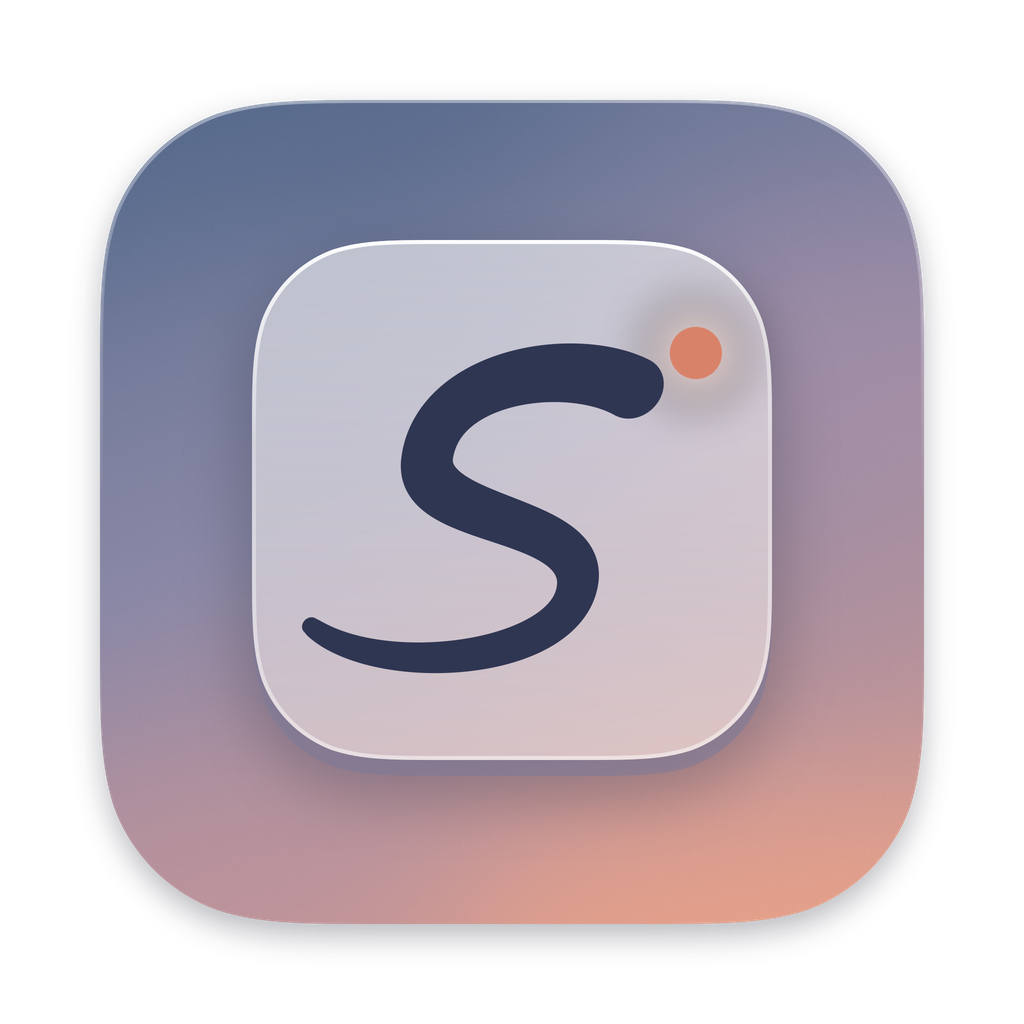
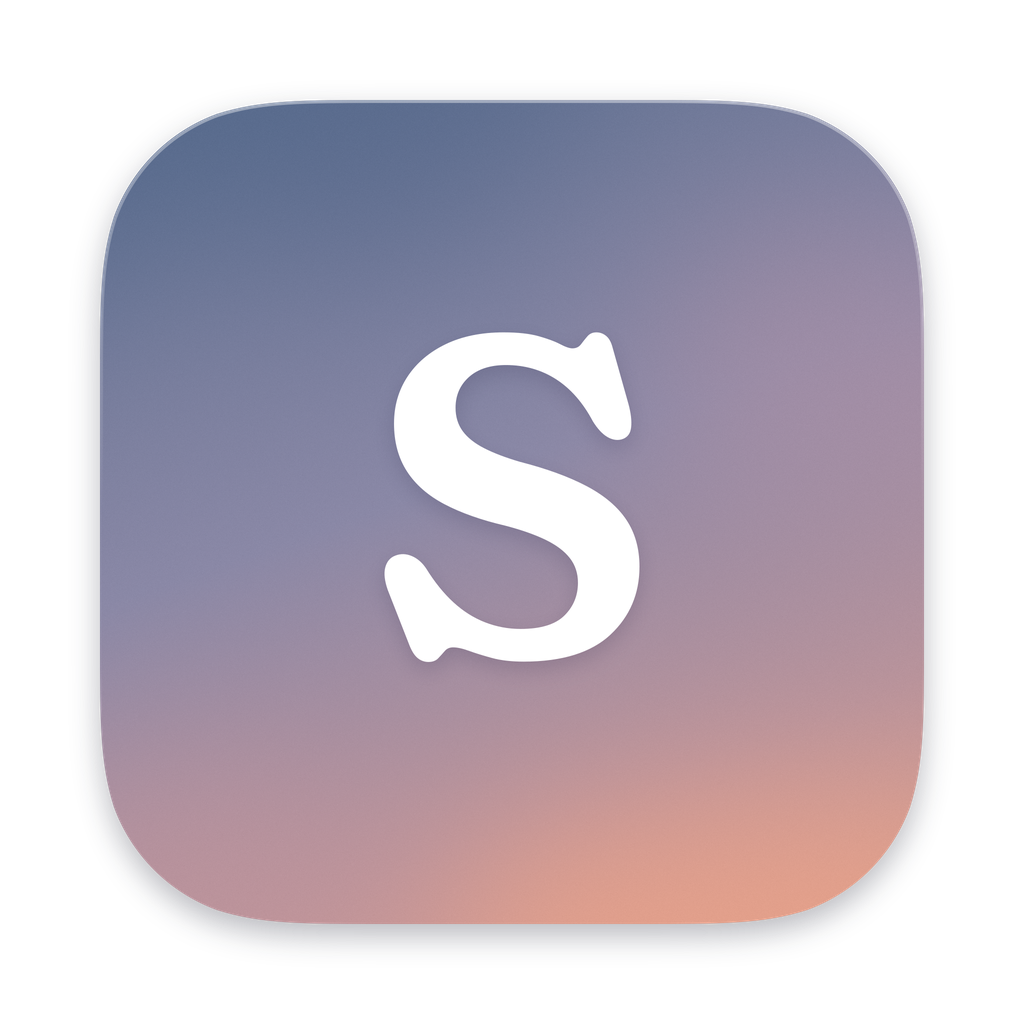
Site: brand v3 quiet wordmark + new Shield mark

Changed region(s): [[0.2188, 0.2188, 0.7812, 0.7812]]

diff --git a/index.html b/index.html
@@ -390,7 +390,7 @@
 
     <header class="x-nav" id="nav">
       <div class="x-wrap x-nav__in">
-        <a class="x-nav__logo" href="#top" aria-label="Swoop home"><img class="x-logo-dark" src="swoop-logo-dark.svg" alt="swoop" width="111" height="28" /><img class="x-logo-light" src="swoop-logo-light.svg" alt="swoop" width="111" height="28" /></a>
+        <a class="x-nav__logo" href="#top" aria-label="Swoop home"><img class="x-logo-dark" src="swoop-wordmark-dark.svg" alt="swoop" width="100" height="30" /><img class="x-logo-light" src="swoop-wordmark-light.svg" alt="swoop" width="100" height="30" /></a>
         <nav aria-label="Main">
           <ul class="x-nav__links" id="nav-links">
             <li><a href="#launcher">Launcher</a></li>
@@ -641,7 +641,7 @@
               <h2 class="x-h2" id="shield-h">Block ads and trackers on your <em>whole Mac</em>.</h2>
               <p class="x-lede">A free, system-wide ad blocker. Shield stops ads, trackers, telemetry and malware sites in every browser and app (Safari, Chrome, Arc, Brave, Edge, Firefox, even apps outside the browser) without slowing you down.</p>
             </div>
-            <img class="x-shield__mark x-reveal" src="shield-mark-v3-512.png" alt="Swoop Shield mark" width="200" height="200" />
+            <img class="x-shield__mark x-reveal" src="shield-mark-512.png" alt="Swoop Shield mark" width="200" height="200" />
           </div>
           <div class="x-grid">
             <div class="x-card x-reveal">
@@ -808,7 +808,7 @@
 
     <footer class="x-foot">
       <div class="x-wrap x-foot__in">
-        <a href="#top" aria-label="Back to top"><img src="swoop-logo-light.svg" alt="swoop" width="111" height="28" /></a>
+        <a href="#top" aria-label="Back to top"><img src="swoop-wordmark-light.svg" alt="swoop" width="100" height="30" /></a>
         <ul>
           <li><a href="https://github.com/rubendenoronha/swoop">GitHub</a></li>
           <li><a href="https://github.com/rubendenoronha/swoop/releases/latest">Releases</a></li>
